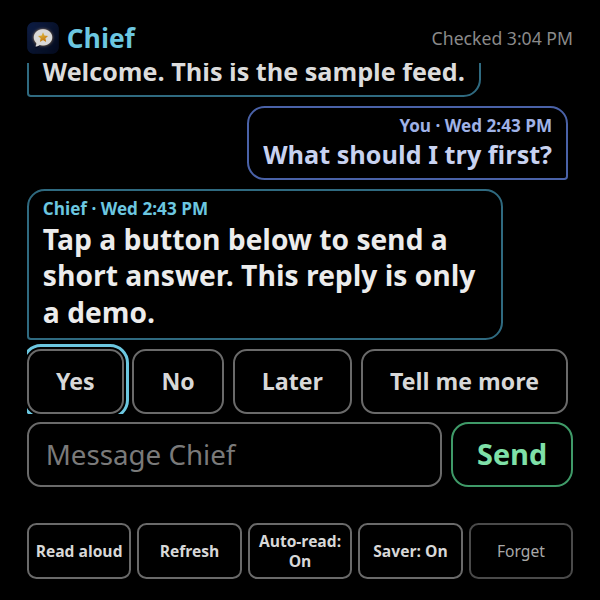
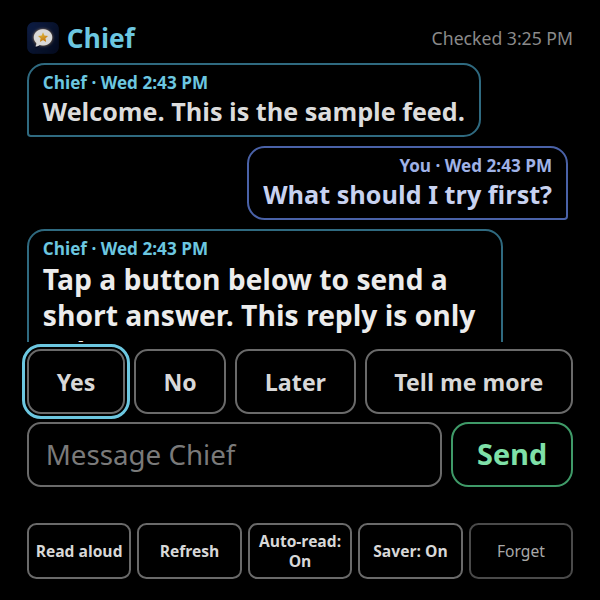
Move quick replies out of the scrolling transcript.
The glasses move focus themselves. Reply buttons are real buttons between the chat and the message box, so Tab and spatial navigation can reach them from Send, Forget, and the message box.

diff --git a/app.js b/app.js
@@ -7,7 +7,6 @@
   const LS_SEEN_IDS = 'chief.seenIds', LS_SEEN_T = 'chief.seenT';
   const QS = new URLSearchParams(location.search);
   const showQuick = QS.get('replies') !== '0';   // on in the normal app; ?replies=0 hides them
-  const QUICK = ['Yes', 'No', 'Later', 'Tell me more'];
   // Battery: the live channel (SSE) is the only network activity while healthy. The feed is polled only
   // while that channel is down, with backoff. Everything stops when hidden or idle.
   const BACKOFF_MS = [5000, 10000, 20000, 60000];
@@ -264,6 +263,10 @@
     if (!saver) { try { if (navigator.vibrate) navigator.vibrate(60); } catch { /* ignore */ } }
     if (auto) speak(assistantName + ' says: ' + text);
     scrollEnd();
+    // A new message puts the highlight back on its reply row, unless the wearer
+    // is typing or confirming Forget.
+    const typing = document.activeElement && document.activeElement.matches && document.activeElement.matches('input, textarea');
+    if (!confirmOpen && !typing) focusReplyRow();
   }
 
   // ---------- state ----------
@@ -330,58 +333,46 @@
       if (n.sig !== sig) {
         n.li.className = 'msg ' + m.role + (m.state ? ' pending ' + m.state : '');
         if (m.state) n.li.dataset.id = m.id; else delete n.li.dataset.id;
-        // A failed send is retried by activating the row. The row is not a button,
-        // so it needs tabindex to join D-pad focus.
-        if (m.state === 'failed') {
-          n.li.tabIndex = 0;
-          n.li.classList.add('focusable');
-          n.li.setAttribute('role', 'button');
-        } else {
-          n.li.removeAttribute('tabindex');
-          n.li.classList.remove('focusable');
-          if (n.li.getAttribute('role') === 'button') n.li.removeAttribute('role');
-        }
         n.li.firstChild.textContent = label;
         n.li.lastChild.textContent = m.text;
         n.sig = sig;
       }
-      let want = prev ? prev.nextSibling : ol.firstChild;
-      while (want && want.id === 'quick-replies') want = want.nextSibling;
+      // A bubble can take the highlight (a new message does). Select on it
+      // jumps to the reply buttons, which live outside this scroller.
+      n.li.tabIndex = 0;
+      n.li.classList.add('focusable');
+      n.li.setAttribute('role', 'button');
+      n.li.setAttribute('aria-label', m.state === 'failed' ? 'Retry sending' : 'Show quick replies');
+      const want = prev ? prev.nextSibling : ol.firstChild;
       if (want !== n.li) ol.insertBefore(n.li, want);
       prev = n.li;
     }
     for (const [key, n] of nodes) if (!keep.has(key)) { n.li.remove(); nodes.delete(key); }
+    let latestKey = null;
+    for (const m of list) if (m.role === 'chief') latestKey = m.id ? 'i:' + m.id : 'c:' + m.ct;
+    for (const [key, n] of nodes) n.li.classList.toggle('latest', key === latestKey);
     placeQuick(list);
     $('empty').hidden = list.length > 0;
     $('read-btn').disabled = !latestChief();
     if (atBottom || added) scrollEnd();
   }
-  // Quick replies sit under the newest assistant bubble and send that text. ?replies=0 hides them.
+  // Reply buttons are real buttons in the page, between the transcript and the
+  // message box. They are never moved into #scroll. ?replies=0 hides them.
   function placeQuick(list) {
     const row = $('quick-replies');
-    if (!showQuick) { if (row) row.remove(); return; }
-    let chiefKey = null;
-    for (const m of list) if (m.role === 'chief') chiefKey = m.id ? 'i:' + m.id : 'c:' + m.ct;
-    const host = chiefKey && nodes.get(chiefKey);
-    if (!host) { if (row) row.remove(); return; }
-    let el = row;
-    if (!el) {
-      el = document.createElement('li');
-      el.id = 'quick-replies';
-      el.className = 'quick-replies';
-      el.setAttribute('role', 'group');
-      el.setAttribute('aria-label', 'Quick replies');
-      for (const label of QUICK) {
-        const b = document.createElement('button');
-        b.type = 'button';
-        b.className = 'focusable';
-        b.textContent = label;
-        b.dataset.text = label;
-        b.addEventListener('click', () => send(b.dataset.text));
-        el.append(b);
-      }
-    }
-    if (host.li.nextSibling !== el) host.li.after(el);
+    if (!row) return;
+    const show = showQuick && list.some((m) => m.role === 'chief');
+    row.hidden = !show;
+  }
+  // Highlight the first quick reply and scroll it into view. Returns false when
+  // replies are hidden or not on screen yet.
+  function focusReplyRow() {
+    const row = $('quick-replies');
+    if (!row || row.hidden) return false;
+    const el = row.querySelector('button:not([disabled])');
+    if (!el) return false;
+    el.focus();
+    return document.activeElement === el;
   }
 
   // Apply a feed (raw JSON text). Decrypts only when the text changed.
@@ -626,8 +617,8 @@
   // The message field is the next stop down.
   function focusPrimary() {
     if ($('feed').hidden) return;
-    const quick = document.querySelector('#quick-replies button.focusable');
-    const el = quick || $('msg');
+    if (focusReplyRow()) return;
+    const el = $('msg');
     if (!el) return;
     el.focus();
     try { el.scrollIntoView({ block: 'nearest', inline: 'nearest' }); } catch { /* ignore */ }
@@ -652,10 +643,21 @@
     if (await unlock(v)) { $('pass').value = ''; focusPrimary(); }
   });
   $('compose').addEventListener('submit', (ev) => { ev.preventDefault(); send(); });
+  $('quick-replies').addEventListener('click', (ev) => {
+    const b = ev.target.closest('button');
+    if (b && b.dataset.text) send(b.dataset.text);
+  });
   $('convo').addEventListener('click', (ev) => {
-    const li = ev.target.closest('li.failed');
-    const o = li && outbox.find((x) => x.id === li.dataset.id);
-    if (o) { setStatus('busy', 'Retrying in the background…'); startWaiting(); deliver(o); }
+    if (ev.target.closest('#quick-replies')) return;
+    const failed = ev.target.closest('li.failed');
+    if (failed) {
+      const o = outbox.find((x) => x.id === failed.dataset.id);
+      if (o) { setStatus('busy', 'Retrying in the background…'); startWaiting(); deliver(o); }
+      return;
+    }
+    // Select on a transcript bubble brings its reply row back, even after the
+    // highlight has moved on to Forget or another message.
+    if (ev.target.closest('li.msg')) focusReplyRow();
   });
   $('read-btn').addEventListener('click', () => { const m = latestChief(); if (m) speak(m.text); });
   $('refresh-btn').addEventListener('click', () => { setChecked('Checking…'); refresh(); });
@@ -703,28 +705,9 @@
   $('forget-btn').addEventListener('click', askForget);
   $('confirm-cancel').addEventListener('click', () => cancelForget(false));
   $('confirm-forget').addEventListener('click', commitForget);
-  // Glasses D-pad: arrow keys move focus, Enter activates the focused control.
-  // Quick replies live in the scrolling transcript, which the built-in spatial
-  // walk can skip, so focus moves in DOM order and the chosen control scrolls into view.
-  function focusableList() {
-    return [...document.querySelectorAll('.focusable')].filter((el) => {
-      if (el.disabled) return false;
-      if (el.closest('[hidden], [inert]')) return false;
-      return true;
-    });
-  }
-  function moveFocus(dir) {
-    const list = focusableList();
-    if (!list.length) return;
-    const idx = list.indexOf(document.activeElement);
-    const prev = dir === 'up' || dir === 'left';
-    const next = idx === -1
-      ? (prev ? list.length - 1 : 0)
-      : (prev ? (idx - 1 + list.length) % list.length : (idx + 1) % list.length);
-    const el = list[next];
-    el.focus();
-    try { el.scrollIntoView({ block: 'nearest', inline: 'nearest' }); } catch { /* ignore */ }
-  }
+  // Arrow keys are left to the glasses. Chromium spatial navigation (and Tab)
+  // move focus. A custom arrow walk would swallow those keys.
+  // Enter on a transcript bubble is not a native button activation.
   document.addEventListener('keydown', (ev) => {
     if (ev.key === 'Escape') {
       if (!confirmOpen) return;
@@ -732,17 +715,9 @@
       cancelForget(false);
       return;
     }
-    const dir = { ArrowUp: 'up', ArrowDown: 'down', ArrowLeft: 'left', ArrowRight: 'right' }[ev.key];
-    if (dir && !ev.altKey && !ev.ctrlKey && !ev.metaKey) {
-      ev.preventDefault();
-      moveFocus(dir);
-      return;
-    }
-    // Enter activates the focused control once. Inputs keep their normal submit behavior.
-    if (ev.key !== 'Enter') return;
+    if (ev.key !== 'Enter' || ev.altKey || ev.ctrlKey || ev.metaKey || ev.shiftKey) return;
     const el = document.activeElement;
-    if (!el || !el.classList || !el.classList.contains('focusable')) return;
-    if (el.matches('input, textarea')) return;
+    if (!el || !el.classList || !el.classList.contains('msg')) return;
     ev.preventDefault();
     el.click();
   });

diff --git a/index.html b/index.html
@@ -13,9 +13,9 @@
   <link rel="icon" href="icon-192.png" type="image/png" sizes="192x192">
   <link rel="apple-touch-icon" href="apple-touch-icon.png" sizes="180x180">
   <link rel="manifest" href="manifest.webmanifest">
-  <link rel="stylesheet" href="style.css?v=3">
+  <link rel="stylesheet" href="style.css?v=4">
   <script defer src="config.js?v=3"></script>
-  <script defer src="app.js?v=3"></script>
+  <script defer src="app.js?v=5"></script>
 </head>
 <body>
   <div id="app" class="app-shell">
@@ -42,6 +42,13 @@
       <div id="scroll" class="scroll">
         <p id="empty" class="empty">No messages yet.</p>
         <ol id="convo" class="convo" aria-live="polite"></ol>
+      </div>
+      <!-- Outside the scrolling transcript so directional focus can leave and return. -->
+      <div id="quick-replies" class="quick-replies" role="group" aria-label="Quick replies">
+        <button type="button" data-text="Yes">Yes</button>
+        <button type="button" data-text="No">No</button>
+        <button type="button" data-text="Later">Later</button>
+        <button type="button" data-text="Tell me more">Tell me more</button>
       </div>
       <form id="compose" class="compose" autocomplete="off">
         <input id="msg" type="text" class="focusable" enterkeyhint="send" autocomplete="off" maxlength="2000" placeholder="Message" aria-label="Message">

diff --git a/style.css b/style.css
@@ -55,11 +55,11 @@ button:active { border-color: #d8d8d8; }
 .msg.owner .time { color: #9fb2e6; text-align: end; }
 .msg .text { font-size: 1em; font-weight: 600; color: #dcdcdc; }
 .msg.owner .text { color: #c8d2f0; }
-.msg.chief:last-child .text,
-.msg.chief:has(+ .quick-replies) .text { font-size: 1.12em; color: #ececec; }
+.msg.chief.latest .text { font-size: 1.12em; color: #ececec; }
+/* Not a scroller. Directional focus walks onto these buttons from the message box and the controls. */
 .quick-replies {
   display: flex; flex-wrap: wrap; gap: 0.35em; margin: 0; padding: 0;
-  align-self: stretch; max-inline-size: 100%; list-style: none;
+  align-self: stretch; max-inline-size: 100%; overflow: visible;
 }
 .quick-replies button {
   flex: 1 1 auto; white-space: nowrap; min-block-size: 2.8em;

diff --git a/README.md b/README.md
@@ -71,7 +71,7 @@ This uses Meta's developer preview. The taps change. Chief is not an official Me
 1. Turn on Developer Mode using only this section: [Enabling Developer Mode in the Meta AI app](https://wearables.developer.meta.com/docs/develop/webapps/setup/#enabling-developer-mode-in-the-meta-ai-app).
 2. Add the page by its address using only this section: [Load the Web App on your glasses](https://wearables.developer.meta.com/docs/develop/webapps/test/#load-the-web-app-on-your-glasses).
 3. Use the `https://` address from Pages. Do not use `http://` or `127.0.0.1`.
-4. On the glasses, open Chief and type your passphrase. Swipe moves the highlight between the reply buttons (Yes, No, Later, Tell me more). Pinch or Select sends the highlighted one.
+4. On the glasses, open Chief and type your passphrase. The reply buttons (Yes, No, Later, Tell me more) sit under the chat and above the message box. Swipe back to them from the message box, Send, or Forget. Pinch or Select sends the highlighted one. Select a message to jump back to Yes.
 
 ![The Yes button highlighted. Swipe moves to No, Later, and Tell me more.](docs/screenshots/quick-reply-focus.png)
 
